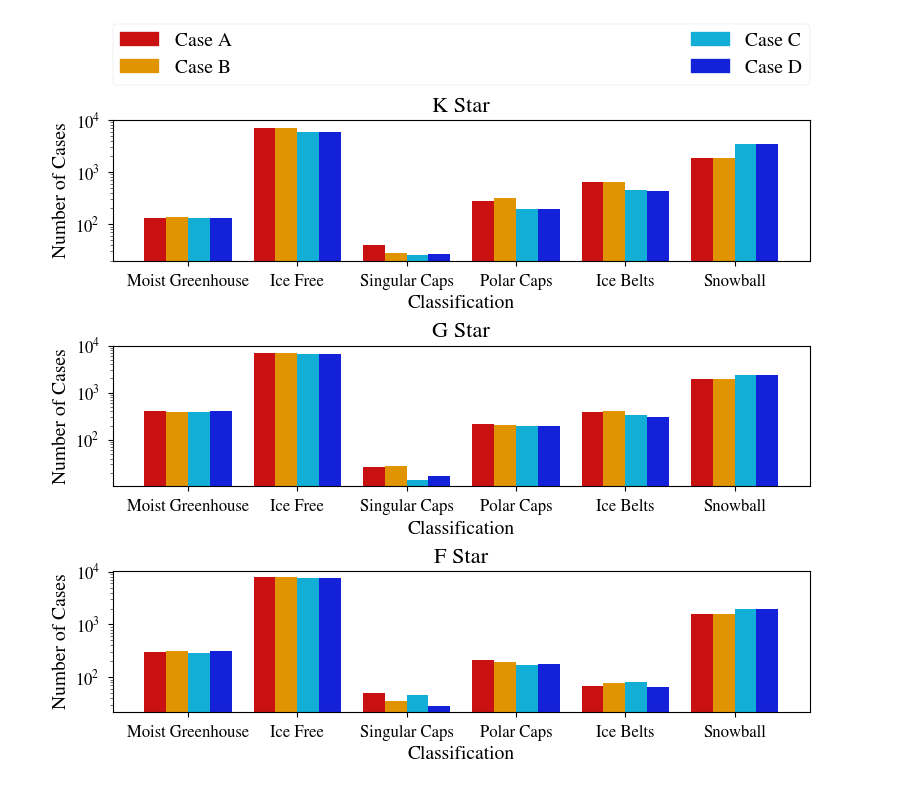
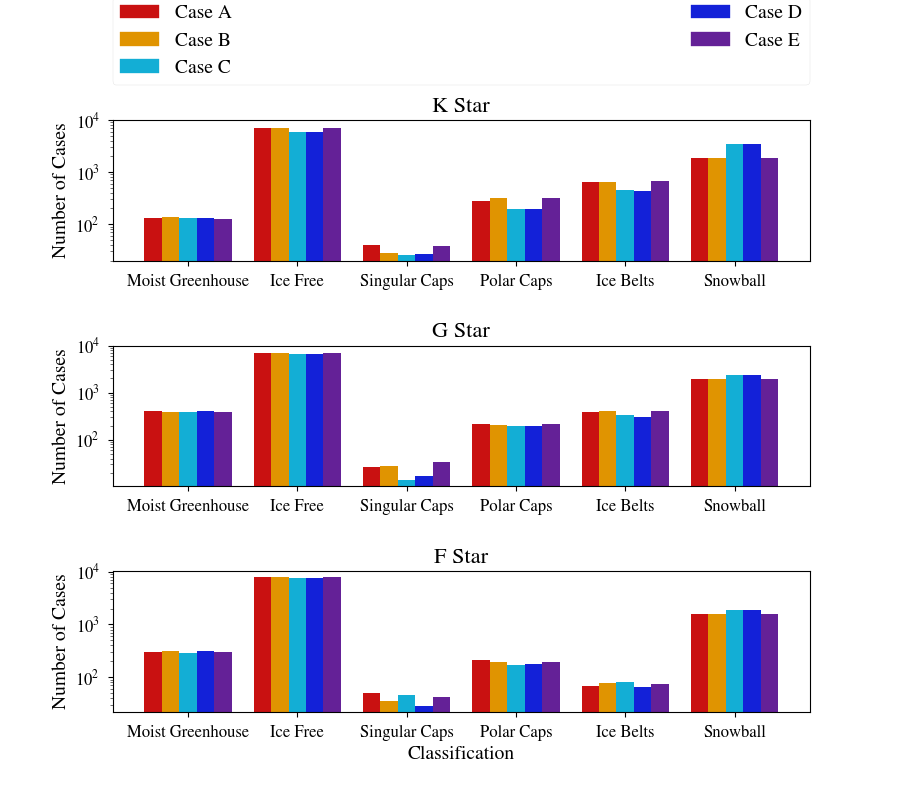
updated dynamic compare plot

diff --git a/DynamicCompare/makeplot.py b/DynamicCompare/makeplot.py
@@ -32,8 +32,9 @@ F_norm = [307, 7785, 51, 215, 69, 1573]
 F_norm_alb = [319, 7782, 35, 197, 78, 1588]
 F_alb_gu = [294, 7483 ,47, 168, 81, 1923]
 F_alb_un = [308, 7491, 29, 180, 66, 1924]
+F_rotation = [304,7795,43,191,73,1594]
 
-F_Cases = [F_norm,F_norm_alb,F_alb_gu,F_alb_un]
+F_Cases = [F_norm,F_norm_alb,F_alb_gu,F_alb_un,F_rotation]
 
 G_norm = [401,7054,26,216,385,1918]
 G_norm_alb = [391,7065,28,204,400,1911]
